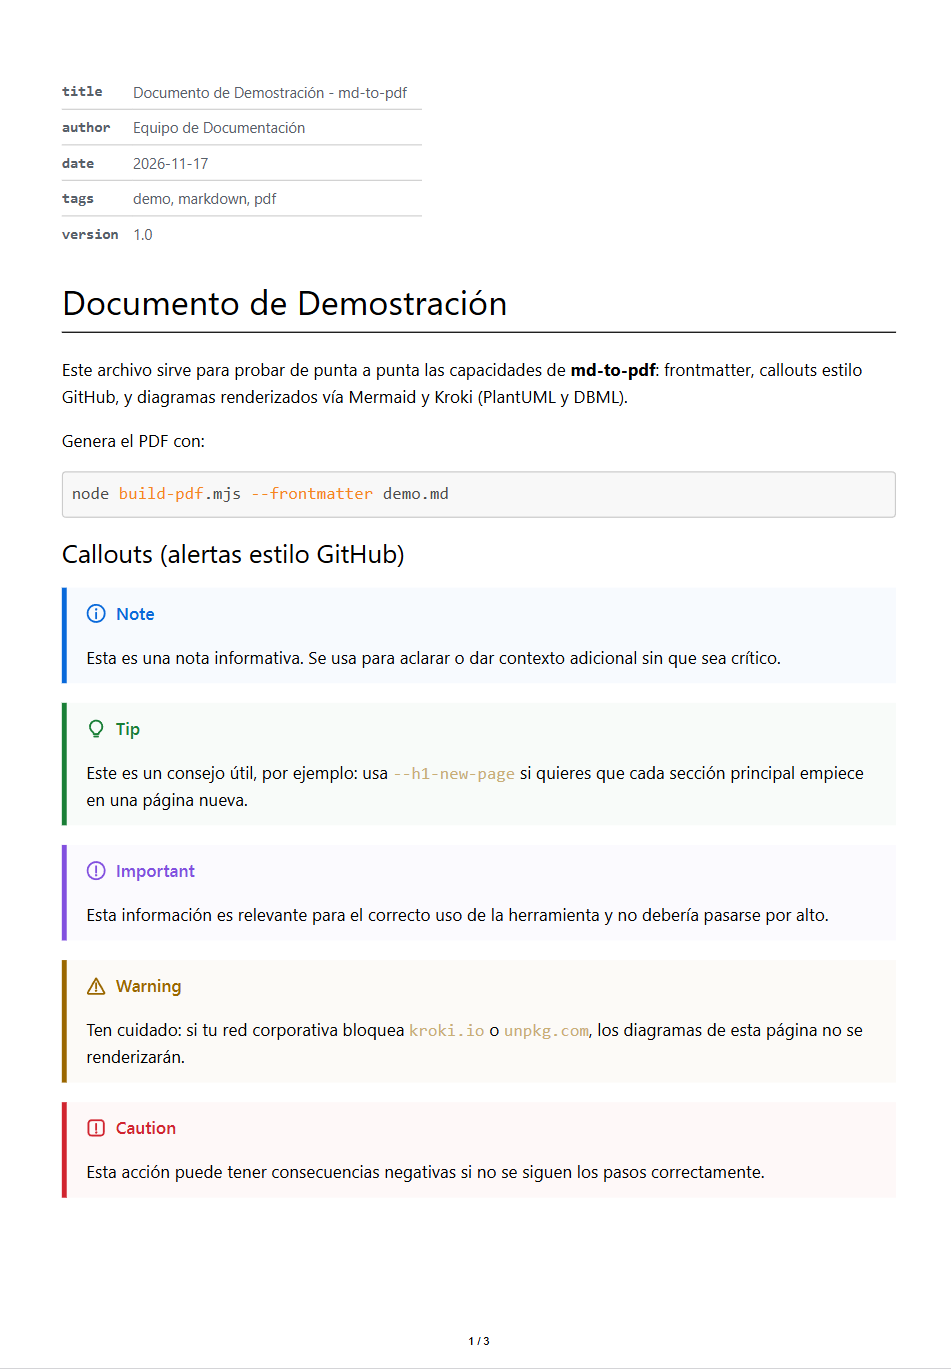
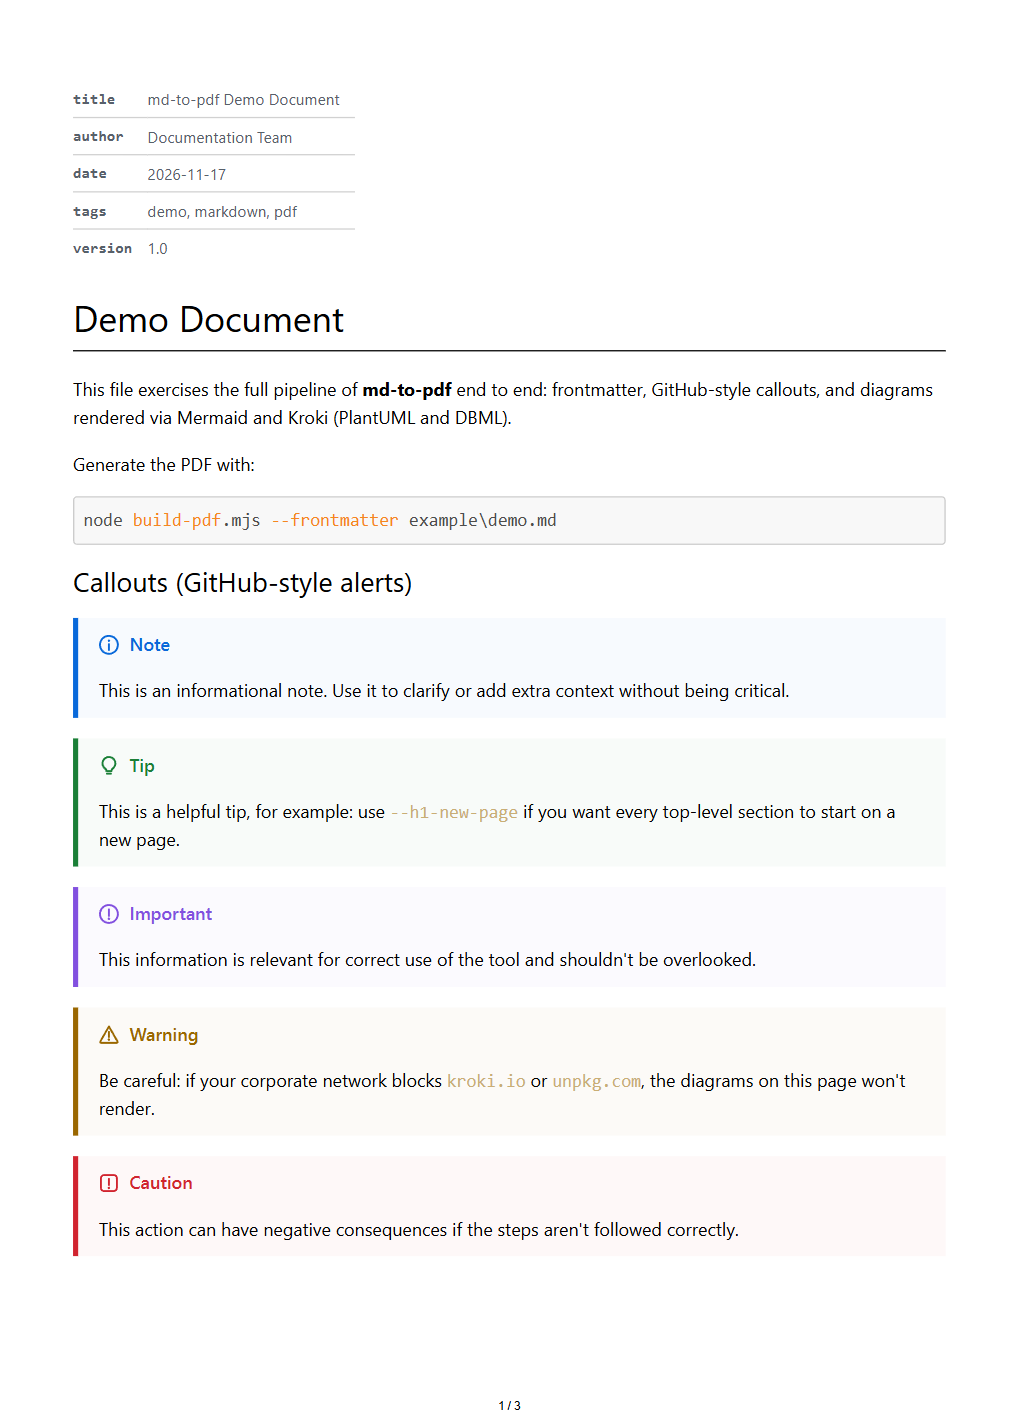
docs(example): translate demo document and screenshots to English
Translate example/demo.md to English for consistency with the rest of
the project (README, code comments), and regenerate the three PDF
preview screenshots to match the translated content.

diff --git a/example/demo.md b/example/demo.md
@@ -1,58 +1,58 @@
 ---
-title: "Documento de Demostración - md-to-pdf"
-author: "Equipo de Documentación"
+title: "md-to-pdf Demo Document"
+author: "Documentation Team"
 date: "2026-11-17"
 tags: "demo, markdown, pdf"
 version: "1.0"
 ---
 
-# Documento de Demostración
+# Demo Document
 
-Este archivo sirve para probar de punta a punta las capacidades de **md-to-pdf**: frontmatter,
-callouts estilo GitHub, y diagramas renderizados vía Mermaid y Kroki (PlantUML y DBML).
+This file exercises the full pipeline of **md-to-pdf** end to end: frontmatter,
+GitHub-style callouts, and diagrams rendered via Mermaid and Kroki (PlantUML and DBML).
 
-Genera el PDF con:
+Generate the PDF with:
 
 ```powershell
 node build-pdf.mjs --frontmatter example\demo.md
 ```
 
-## Callouts (alertas estilo GitHub)
+## Callouts (GitHub-style alerts)
 
 > [!NOTE]
-> Esta es una nota informativa. Se usa para aclarar o dar contexto adicional sin que sea crítico.
+> This is an informational note. Use it to clarify or add extra context without being critical.
 
 > [!TIP]
-> Este es un consejo útil, por ejemplo: usa `--h1-new-page` si quieres que cada sección principal
-> empiece en una página nueva.
+> This is a helpful tip, for example: use `--h1-new-page` if you want every top-level section to
+> start on a new page.
 
 > [!IMPORTANT]
-> Esta información es relevante para el correcto uso de la herramienta y no debería pasarse por alto.
+> This information is relevant for correct use of the tool and shouldn't be overlooked.
 
 > [!WARNING]
-> Ten cuidado: si tu red corporativa bloquea `kroki.io` o `unpkg.com`, los diagramas de esta
-> página no se renderizarán.
+> Be careful: if your corporate network blocks `kroki.io` or `unpkg.com`, the diagrams on this
+> page won't render.
 
 > [!CAUTION]
-> Esta acción puede tener consecuencias negativas si no se siguen los pasos correctamente.
+> This action can have negative consequences if the steps aren't followed correctly.
 
 <!-- page-break -->
 
-## Diagrama de secuencia (Mermaid)
+## Sequence diagram (Mermaid)
 
 ```mermaid
 sequenceDiagram
-    participant U as Usuario
+    participant U as User
     participant CLI as build-pdf.mjs
     participant B as Chromium (Puppeteer)
     U->>CLI: node build-pdf.mjs demo.md
-    CLI->>CLI: Parsear Markdown + frontmatter
-    CLI->>B: Renderizar HTML
-    B-->>CLI: PDF generado
+    CLI->>CLI: Parse Markdown + frontmatter
+    CLI->>B: Render HTML
+    B-->>CLI: Generated PDF
     CLI-->>U: demo.pdf
 ```
 
-## Diagrama de componentes (PlantUML)
+## Component diagram (PlantUML)
 
 ```plantuml
 @startuml
@@ -66,11 +66,11 @@ package "md-to-pdf" {
 }
 
 [puppeteer-core] --> [Chromium / Edge]
-[Kroki API] --> [Diagrama SVG]
+[Kroki API] --> [SVG diagram]
 @enduml
 ```
 
-## Esquema de base de datos (DBML)
+## Database schema (DBML)
 
 ```dbml
 Table users {
@@ -99,7 +99,7 @@ Table document_tags {
 }
 ```
 
-## Cierre
+## Wrap-up
 
-Con esto quedan cubiertos los cuatro elementos principales del pipeline: **frontmatter**,
-**callouts**, **diagramas Mermaid** y **diagramas vía Kroki** (PlantUML y DBML en este ejemplo).
+This covers the four main elements of the pipeline: **frontmatter**, **callouts**,
+**Mermaid diagrams**, and **diagrams via Kroki** (PlantUML and DBML in this example).
